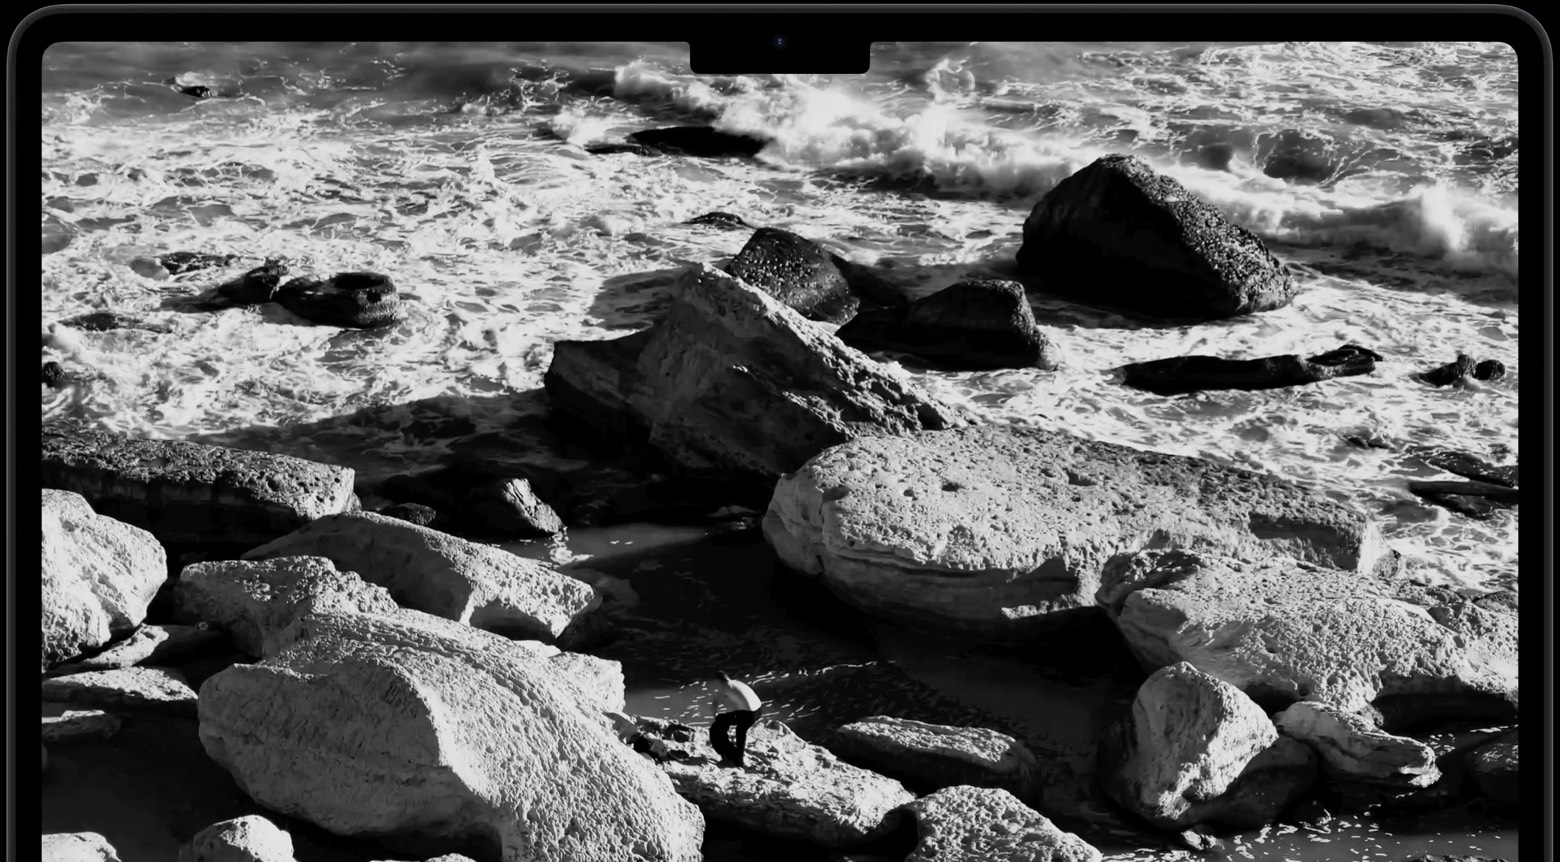
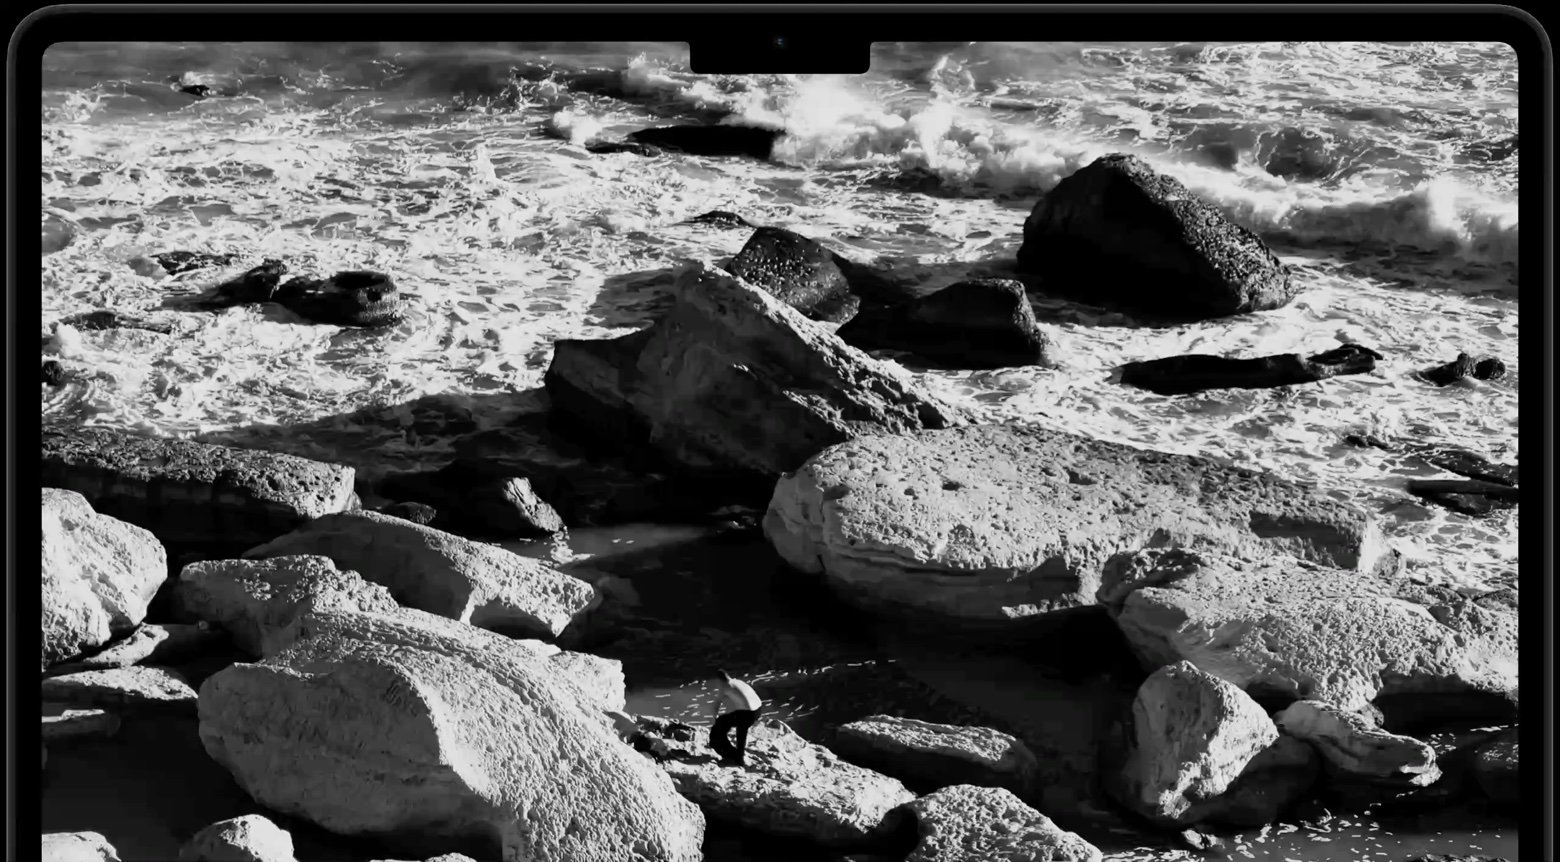
El póster llena el hueco del portátil, y el vídeo entra fundiéndose
Medido en producción: el titular aparecía a los 0,4 s y el portátil entre 4 y 6, o
sea varios segundos con un agujero donde debía estar el aparato. Las dos vías
obvias ya se habían probado —adelantar el índice del MP4 y bajar el peso a 12 MB— y
el agujero seguía: el navegador no espera al archivo entero, espera a tener búfer, y
eso no baja recortando megas.

Así que en ese hueco hay una imagen desde el primer pintado y el vídeo cruza por
encima cuando está listo.

**El póster es el fotograma cero del propio vídeo**, y eso es lo que hace que el
relevo no se vea: no se cambia una imagen por otra, se funden dos imágenes casi
idénticas y lo único que cambia es que una empieza a moverse. Si algún día se
recodifica el vídeo hay que volver a sacar el póster, o el cruce se notará.

Va por `next/image` con `priority`: Vercel lo sirve en AVIF y al tamaño de cada
pantalla, que para una foto con este detalle es menos de la mitad que el JPEG de
origen. Antes el póster no se descargaba nunca —era solo el recambio de WebGL—, y
ahora es lo primero que se ve, así que el formato importa.

Comprobado el fundido muestreando las dos capas cada 100 ms: **las dos opacidades
suman ≈1 en todo momento**, así que no hay parpadeo ni fondo asomando. Y con el
vídeo bloqueado del todo la portada se ve completa.

En local, a 12 Mbps: algo en el hueco **al segundo**, y el vídeo releva a los 3,1.

diff --git a/studio/src/components/site/Mac.tsx b/studio/src/components/site/Mac.tsx
@@ -1,8 +1,9 @@
 'use client';
 
+import Image from 'next/image';
 import { useEffect, useRef, useState } from 'react';
 
-import { useReducedMotion } from './motion';
+import { EASE, useReducedMotion } from './motion';
 
 /**
  * El portátil de la portada, **con su transparencia de verdad**.
@@ -42,13 +43,30 @@ import { useReducedMotion } from './motion';
  * deshacer nada. Desmultiplicar para volver a multiplicar es de donde salen los
  * halos oscuros en el borde del recorte.
  *
- * ## Y si nada de esto llega a correr
+ * ## El póster ya no es un recambio: es lo primero que se ve
  *
- * Hay póster. Sin JavaScript lo sirve un `<noscript>`, y si WebGL no arranca se
- * pide desde aquí. **No se descarga en el camino bueno**, que es lo que hace que
- * un recambio de 376 KB no le cueste nada a quien no lo necesita.
- * La regla de la casa es que la portada no puede depender de JavaScript para
- * verse; aquí eso significa que sin él no habrá movimiento, pero habrá portátil.
+ * Medido en producción: el titular aparece a los **0,4 s** y el portátil tardaba
+ * entre 4 y 6, así que había un agujero de varios segundos donde debía estar el
+ * aparato. Se probaron las dos vías obvias —adelantar el índice del MP4 y bajar el
+ * peso— y **el agujero seguía**: el navegador no espera al archivo entero, espera a
+ * tener búfer, y eso no baja recortando megas.
+ *
+ * Así que en ese hueco hay una imagen desde el primer pintado, y el vídeo **cruza
+ * por encima** cuando está listo.
+ *
+ * **El póster es el fotograma cero del propio vídeo.** Eso es lo que hace que el
+ * relevo no se vea: no se cambia una imagen por otra, se funden dos imágenes casi
+ * idénticas y lo único que cambia es que una empieza a moverse. Si algún día se
+ * recodifica el vídeo, **hay que volver a sacar el póster** o el cruce se notará.
+ *
+ * Va por `next/image` y no por un `<img>` suelto: así Vercel lo sirve en AVIF y al
+ * tamaño de cada pantalla, que para una foto con este detalle es menos de la mitad
+ * que el JPEG de origen. `priority` porque es lo primero que se ve — sin eso, el
+ * navegador lo trata como una imagen cualquiera y llega tarde, que es justo lo que
+ * se está arreglando.
+ *
+ * Sin JavaScript no hay lienzo, pero el póster está en el marcado: sin él no habrá
+ * movimiento, pero habrá portátil. Ésa es la regla de la casa.
  */
 
 /**
@@ -135,7 +153,8 @@ export function Mac() {
   const video = useRef<HTMLVideoElement>(null);
   const lienzo = useRef<HTMLCanvasElement>(null);
   const reduced = useReducedMotion();
-  const [sinWebGL, setSinWebGL] = useState(false);
+  /** En cuanto el lienzo pinta su primer fotograma, el póster se retira fundiendo. */
+  const [pintado, setPintado] = useState(false);
 
   useEffect(() => {
     const v = video.current;
@@ -166,26 +185,19 @@ export function Mac() {
       depth: false,
     }) ?? null) as WebGLRenderingContext | null;
 
-    if (!gl) {
-      setSinWebGL(true);
-      return;
-    }
+    // Sin WebGL no hay nada que hacer, y tampoco hace falta: el póster ya está
+    // puesto debajo y se queda, porque nadie va a pedirle que se aparte.
+    if (!gl) return;
 
     const programa = gl.createProgram();
     const vs = compilar(gl, gl.VERTEX_SHADER, VERTICE);
     const fs = compilar(gl, gl.FRAGMENT_SHADER, FRAGMENTO);
-    if (!programa || !vs || !fs) {
-      setSinWebGL(true);
-      return;
-    }
+    if (!programa || !vs || !fs) return;
 
     gl.attachShader(programa, vs);
     gl.attachShader(programa, fs);
     gl.linkProgram(programa);
-    if (!gl.getProgramParameter(programa, gl.LINK_STATUS)) {
-      setSinWebGL(true);
-      return;
-    }
+    if (!gl.getProgramParameter(programa, gl.LINK_STATUS)) return;
     gl.useProgram(programa);
 
     // Dos triángulos que cubren el lienzo. No hay más geometría en toda la pieza.
@@ -213,7 +225,7 @@ export function Mac() {
     let vfc = 0;
     let enPantalla = true;
     let pestanaVisible = true;
-    let pintado = false;
+    let primero = false;
 
     const medir = () => {
       // El lienzo se pide a la resolución real de la pantalla, hasta 2x: es un
@@ -245,9 +257,10 @@ export function Mac() {
       gl.clearColor(0, 0, 0, 0);
       gl.clear(gl.COLOR_BUFFER_BIT);
       gl.drawArrays(gl.TRIANGLES, 0, 6);
-      if (!pintado) {
-        pintado = true;
+      if (!primero) {
+        primero = true;
         canvas.style.opacity = '1';
+        setPintado(true);
       }
     };
 
@@ -327,6 +340,30 @@ export function Mac() {
     // portátil está reservado desde el primer pintado y nada salta cuando el
     // vídeo llega. Es la mitad de color del fotograma, 2560x1416.
     <div className="relative w-full" style={{ aspectRatio: '2560 / 1416' }}>
+      {/*
+        El póster, debajo de todo y desde el primer pintado.
+
+        Se queda montado también después del cruce, en vez de desmontarse: quitarlo
+        del árbol mientras se está fundiendo es exactamente cómo se consigue un
+        parpadeo. Ocupa una capa y no cuesta nada.
+      */}
+      <Image
+        src={POSTER}
+        alt=""
+        aria-hidden
+        fill
+        priority
+        // La medida real en pantalla, para que el optimizador no sirva de más.
+        sizes="(max-width: 767px) 86vw, min(86vw, 1560px)"
+        className="object-contain"
+        style={{
+          // El fundido va aquí y no en una clase: si la clase no llega, el póster
+          // se queda encima del vídeo tapándolo para siempre.
+          opacity: pintado ? 0 : 1,
+          transition: reduced ? 'none' : `opacity 900ms ${EASE}`,
+        }}
+      />
+
       <video
         ref={video}
         muted
@@ -343,25 +380,15 @@ export function Mac() {
       <canvas
         ref={lienzo}
         aria-hidden
-        // Aparece cuando ha pintado su primer fotograma. Sin esto se ve un
-        // parpadeo del lienzo vacío antes de que el vídeo tenga datos.
-        className="block h-full w-full transition-opacity duration-300"
-        style={{ opacity: 0 }}
+        className="relative block h-full w-full"
+        style={{
+          // Aparece fundiéndose sobre el póster, que es el mismo fotograma: lo
+          // único que se ve cambiar es que la imagen empieza a moverse.
+          opacity: 0,
+          transition: reduced ? 'none' : `opacity 900ms ${EASE}`,
+        }}
       />
 
-      {/* Si WebGL no arranca. Se pide desde JavaScript, así que en el camino
-          bueno este archivo no se descarga nunca. */}
-      {sinWebGL && (
-        // eslint-disable-next-line @next/next/no-img-element -- recambio estático, sin optimizar, pedido solo cuando falla WebGL.
-        <img src={POSTER} alt="" aria-hidden className="absolute inset-0 h-full w-full" />
-      )}
-
-      {/* Y sin JavaScript. El navegador solo lo pide si el scripting está
-          apagado, que es exactamente cuando hace falta. */}
-      <noscript>
-        {/* eslint-disable-next-line @next/next/no-img-element */}
-        <img src={POSTER} alt="" className="absolute inset-0 h-full w-full" />
-      </noscript>
     </div>
   );
 }
